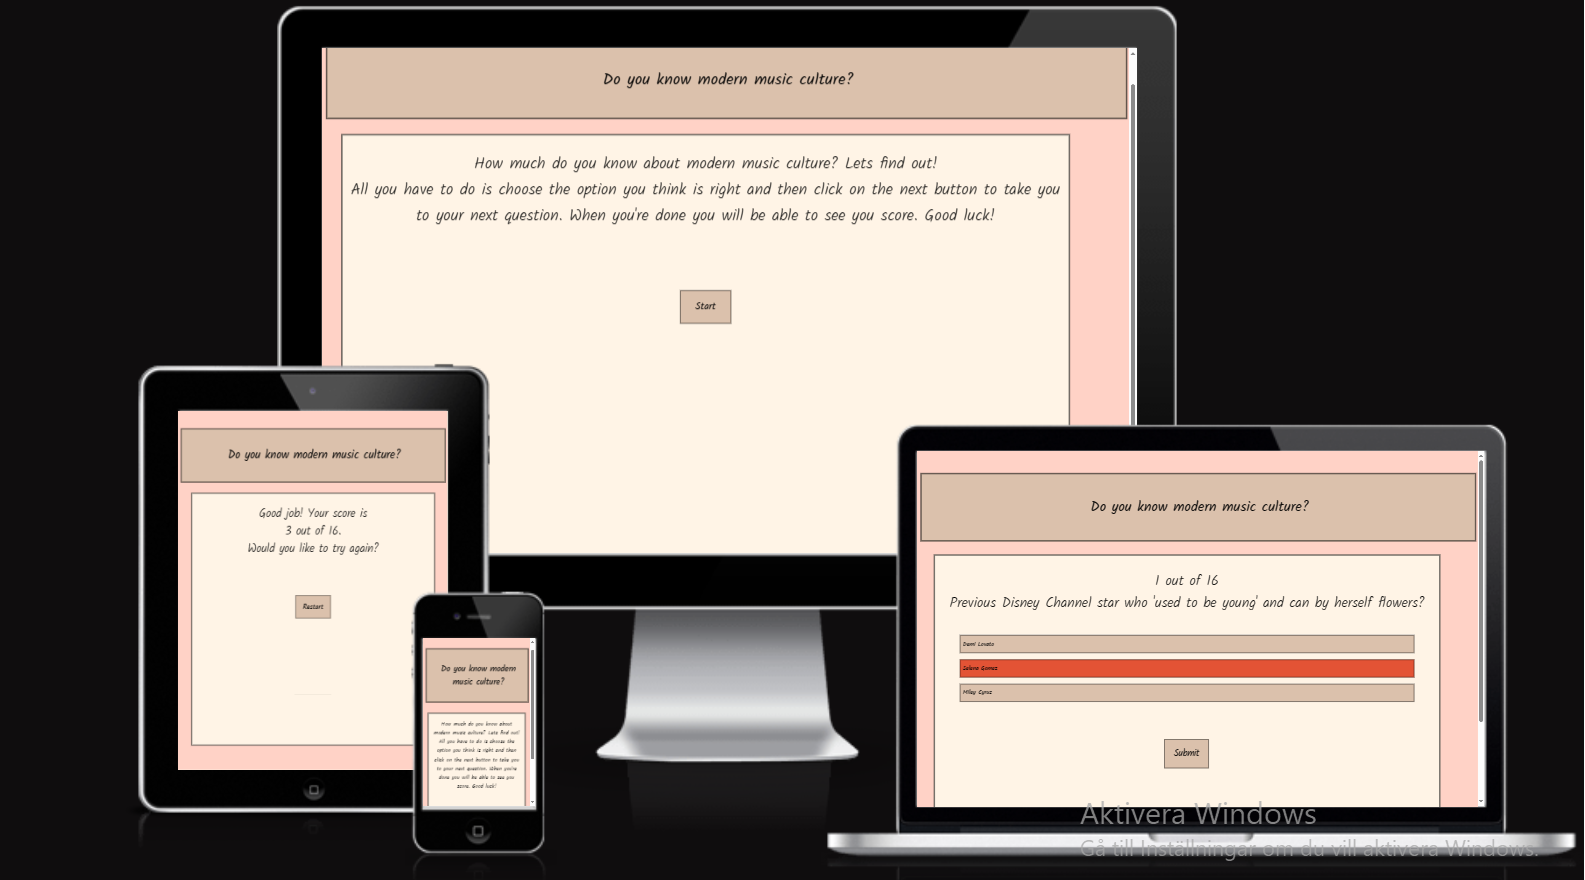
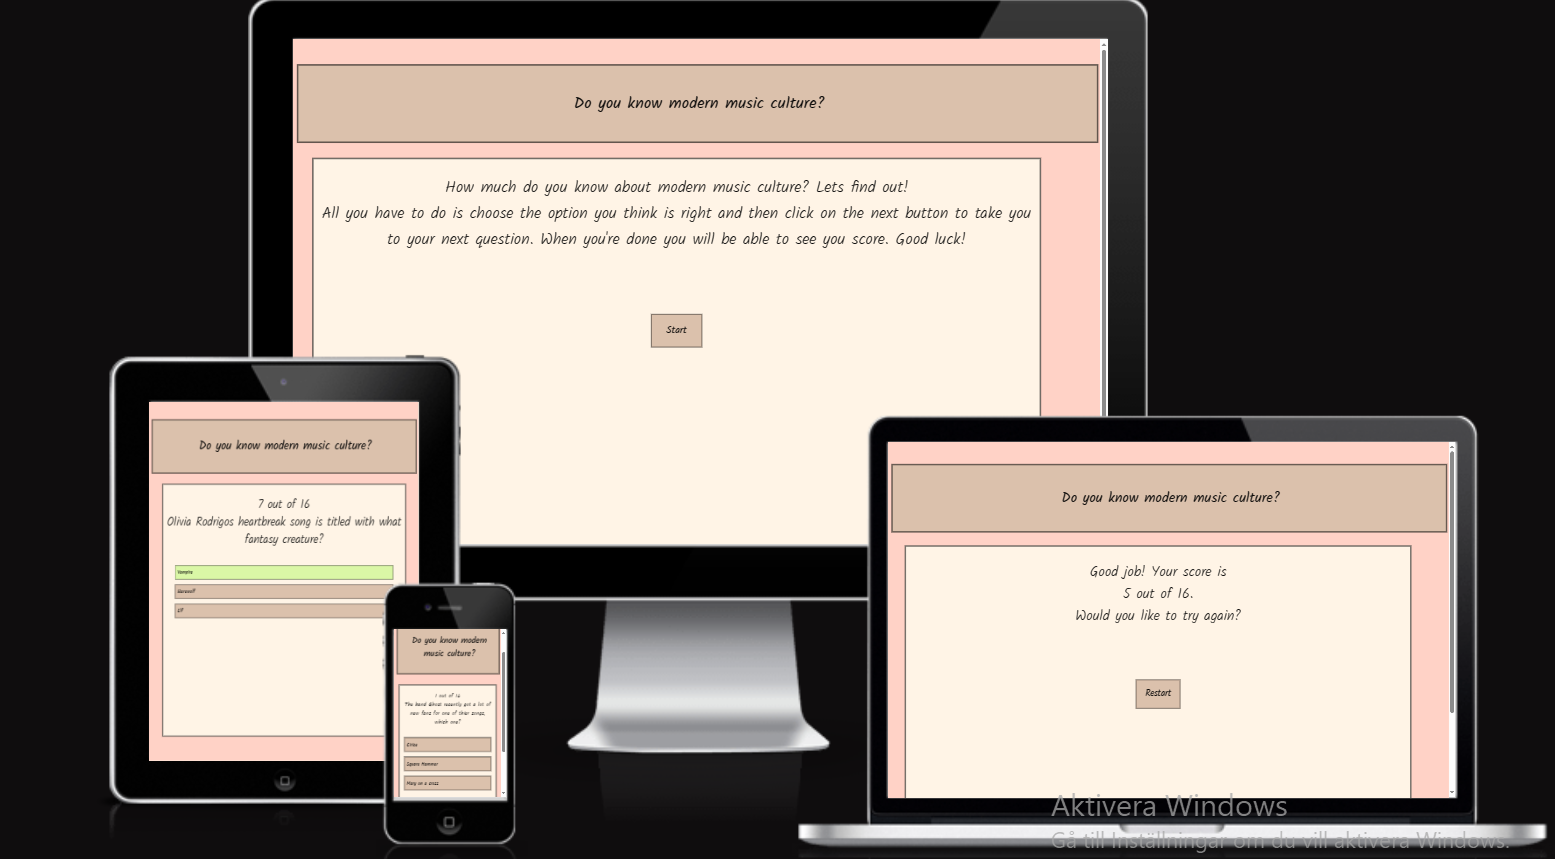
changing and adding in readme

Changed region(s): [[0.0617, 0.0, 1.0, 0.9988]]

diff --git a/assets/css/style.css b/assets/css/style.css
@@ -26,7 +26,7 @@ background-color: #dbc1ac;
 }
 
 .main-div{
-    height: 70%;
+    height: 60%;
     width: 90%;
     background-color: #fff4e6;
     position: absolute;
@@ -128,7 +128,7 @@ background-color: #dbc1ac;
 @media  screen and (min-width: 992px) {
 
     .main-div{
-        height: 99%;
+        height: 80%;
     }
 
     .btn{

diff --git a/assets/javascript/script.js b/assets/javascript/script.js
@@ -121,5 +121,5 @@ function selectAnswer(event) {
     } else {
         chosenAnswer.classList.add('incorrect');
     }
-    setTimeout(nextQuestion, 1500);
+    setTimeout(nextQuestion, 1000);
 }

diff --git a/README.md b/README.md
@@ -12,7 +12,7 @@ The live website: [Music Quiz](https://elingrahn.github.io/music-quiz/)
 * As a visiting user I want to have options to choose from
 * As a visiting user I want it to be easy to move on to te next question
 * As a visiting user I want to see how many questions I have done and how many I have left
-* As a visiting user I want to knowwhich answer id correct
+* As a visiting user I want to know which answer is correct
 * As a visiting user I want to see my score at the end
 * As a visiting user I want to be able to try the quiz again
 
@@ -25,28 +25,33 @@ A small introduction to the game and what the visitor can expect
 
 ### Buttons
 
-There is a start button, submit button, next button and a restart button
+There is a start button and a restart button
 
 ![Start button](screenshots/pp2_startBtn.png)
-![Submit button](screenshots/pp2_submitBtn.png)
-![Next button](screenshots/pp2_nextBtn.png)
 ![Restart button](screenshots/pp2_restartBtn.png)
 
 ### The options
 
 You can press the option you think is right and it will turn red or green depening if the answer is correct or not
 ![Wrong option](screenshots/pp2_wrong.png)
+![correct option](screenshots/pp2_right.png)
 
 ### Score
 
 At the end of the game you will be able to see your score
-<!--Pic-->
+![Score](screenshots/pp2_score.png)
 
 ## Typography and color scheeme
 
 I wanted the game to have a youthful feel, since it is about the modern day music culture. The font family is Kalam from [Google fonts](https://fonts.google.com/).
 The colors are in a soft neutral palette. I chose the colors from [Color hex](www.color-hex.com) and [HTML color codes](htmlcolorcodes.com)
 ![Color palette](screenshots/pp2_colorPalette.png)
+
+## Future features
+
+In the future I would like to add some more styling like images or questions where the user will hear a snippet of a song and then has to guess what it is.
+
+I would also like to make the page more interactive by having a sign up page or a form where the user can send feedback.
 
 ## Technology
 
@@ -75,18 +80,16 @@ The code has been validated and found no errors by using these validators:
   * Validation of the JavaScript
 
 Testing accessability using Lighthouse
-[Lighthouse](screenshots/pp2_accessability.png)
+![Lighthouse](screenshots/pp2_accessability.png)
 
 ### Fixed bugs
 
 * Random Questions
-  * I know I was supposed to use the math object but there seem to be many different ways to use it. In the end by following W3schools code I got there.
+  * I knew I was supposed to use the math object but there seem to be many different ways to use it. In the end by following W3schools code I got there.
 * Restarting the game
   * The game went back to the last question asked instead of really starting over, so I realised I had to set the number index to 0 again as well as the score.
-* Getting the correct answer to show up. 
-  * For some reason when the correct answer is clicked it does not turn green as I've written in the if statement. I'm thinking the computer can't read the boolean for some reason. Still have not solved this.
-
-### Unfixed bugs
+* Getting the correct answer to show up.
+  * When the correct answer was clicked it did not turn green. By creating a new global variable, correctAnswer, and setting it to null so later I could set it to answer.text and then use it in the funtion selectAnswer where the variable correct would have the value of correctAnswer. And if correct is true it the answer button now turns green.
 
 ### Supported sceens and browsers
 
@@ -120,6 +123,8 @@ Here is the link for this project:
 * [W3schools](https://www.w3schools.com/) to help me with the randomization of the questions array
 
 * For the [DOMcontentloaded](https://developer.mozilla.org/en-US/docs/Web/API/Document/DOMContentLoaded_event)
+
+* Mentor Rohit Sharma for feedback
 
 ### Media
 
